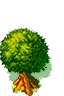
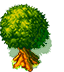
Draw order fixed (as well as in multiplayer)

diff --git a/MFS/MFS/SpriteManager.cs b/MFS/MFS/SpriteManager.cs
@@ -48,22 +48,25 @@ namespace MFS
                                             new Point(26, 15));
             
             //backgroundID3
-            Sprite bckgr = new Sprite (Game.Content.Load<Texture2D>(@"Images/Background/backgroundSheet"), new Point(16, 16), new Point(11, 2), 0);
+            Sprite bckgr = new Sprite (Game.Content.Load<Texture2D>(@"Images/Background/grasstiles2"), new Point(32, 32), new Point(2, 1), 0);
 
             //treealive1ID4
-            Sprite treealive1 = new Sprite(Game.Content.Load<Texture2D>(@"Images/Trees/treealive1"), new Point(64,96));
+            Sprite treealive1 = new Sprite(Game.Content.Load<Texture2D>(@"Images/Trees/treealive1"), new Point(64,72));
 
             //treealive2ID5
-            Sprite treealive2 = new Sprite(Game.Content.Load<Texture2D>(@"Images/Trees/treealive2"), new Point(64,96));
+            Sprite treealive2 = new Sprite(Game.Content.Load<Texture2D>(@"Images/Trees/treealive2"), new Point(64, 72));
 
             //treealive3ID6
-            Sprite treealive3 = new Sprite(Game.Content.Load<Texture2D>(@"Images/Trees/treealive3"), new Point(64,96));
+            Sprite treealive3 = new Sprite(Game.Content.Load<Texture2D>(@"Images/Trees/treealive3"), new Point(64, 72));
 
             //treestump1ID7
-            Sprite treestump1 = new Sprite(Game.Content.Load<Texture2D>(@"Images/Trees/treestump1"), new Point(64,96));
+            Sprite treestump1 = new Sprite(Game.Content.Load<Texture2D>(@"Images/Trees/treestump1"), new Point(64, 72));
 
             //treedead1ID8
-            Sprite treedead1 = new Sprite(Game.Content.Load<Texture2D>(@"Images/Trees/treedead1"), new Point(64,96));
+            Sprite treedead1 = new Sprite(Game.Content.Load<Texture2D>(@"Images/Trees/treedead1"), new Point(64, 72));
+
+            ////treedead1ID9
+            //Sprite treetest = new Sprite(Game.Content.Load<Texture2D>(@"Images/Trees/treealiveTEST"), new Point(64, 72));
 
 
             sprites.Add(playerSprite);
@@ -75,6 +78,7 @@ namespace MFS
             sprites.Add(treealive3);
             sprites.Add(treestump1);
             sprites.Add(treedead1);
+            //sprites.Add(treetest);
         }
 
         public Sprite GetSprite (ushort spriteID)

diff --git a/MFS/MFS/Game1.cs b/MFS/MFS/Game1.cs
@@ -1,6 +1,7 @@
 using Microsoft.Xna.Framework;
 using Microsoft.Xna.Framework.Graphics;
 using Microsoft.Xna.Framework.Input;
+using System;
 
 namespace MFS
 {
@@ -29,10 +30,13 @@ namespace MFS
         {
             this.hostname = hostname;
             string path = @"D:\Documents\University\Bachelor\MultiplayerFarmingSimulator\MFS\MFS\map_1.json";
+            //string path = @"D:\Documents\University\Bachelor\MultiplayerFarmingSimulator\MFS\MFS\testmap.json";
             parser = new Parser(path);
             graphics = new GraphicsDeviceManager(this);
 
             graphics.PreferredBackBufferWidth = parser.GetMapWidth();  // set this value to the desired width of your window
+            Console.WriteLine(parser.GetMapWidth());
+            Console.WriteLine(parser.GetMapHeight());
             graphics.PreferredBackBufferHeight = parser.GetMapHeight();   // set this value to the desired height of your window
             graphics.ApplyChanges();
             
@@ -117,7 +121,7 @@ namespace MFS
             startClient.Draw(spriteBatch, text);
         }
 
-        private void updateGameplay(GameTime gameTime)
+        private void UpdateGameplay(GameTime gameTime)
         {
             InputManager.Instance.HandleInput();
             if (GamePad.GetState(PlayerIndex.One).Buttons.Back == ButtonState.Pressed || Keyboard.GetState().IsKeyDown(Keys.Escape))
@@ -136,8 +140,8 @@ namespace MFS
             entityManager.Draw(spriteBatch);
 
             //Draw font
-            spriteBatch.DrawString(text, "Welcome to my game", new Vector2(10, 10), Color.Black,
-                0, Vector2.Zero, 1, SpriteEffects.None, 1);
+            spriteBatch.DrawString(text, "Welcome to my game", new Vector2(10, 10), Color.Red,
+                0, Vector2.Zero, 1, SpriteEffects.None, 0);
         }
 
 
@@ -149,7 +153,7 @@ namespace MFS
                     UpdateMainMenu();
                     break;
                 case GameState.GAMEPLAY:
-                    updateGameplay(gameTime);
+                    UpdateGameplay(gameTime);
                     break;
             }
 

diff --git a/MFS/MFS/EntityManager.cs b/MFS/MFS/EntityManager.cs
@@ -44,6 +44,7 @@ namespace MFS
             return AddEntity(entity, false);
         }
 
+        //TODO: delete
         public ushort AddEntity(Entity entity, bool isPlayer)
         {
             ushort entityID = lastID;
@@ -98,10 +99,34 @@ namespace MFS
 
         public void Draw(SpriteBatch spriteBatch)
         {
-            foreach (Entity ent in entities.Values)
+            List<Entity> entitiesToDraw = entities.Values.ToList();
+            entitiesToDraw.Sort(CompareEntity);
+
+            foreach (Entity ent in entitiesToDraw)
             {
                 ent.Draw(spriteBatch);
+                
+                Console.WriteLine("Entity poitionX: " + ent.Position.X + " Entity poitionY: " + ent.Position.Y);
             }
+        }
+
+        private int CompareEntity(Entity a, Entity b)
+        {
+            int heightA = a.Size.Y;
+            int heightB = b.Size.Y;
+
+            if (a.Position.Y + heightA < b.Position.Y + heightB)
+            {
+                return -1;
+            }
+            else if (a.Position.Y + heightA == b.Position.Y + heightB)
+            {
+                if (a.Position.X < b.Position.X)
+                {
+                    return -1;
+                }
+            }
+            return 1;
         }
 
         public void Clear()

diff --git a/MFS/MFS/Entity.cs b/MFS/MFS/Entity.cs
@@ -25,11 +25,25 @@ namespace MFS
             }
         }
         protected ushort spriteID;
+        protected Point size;
+        public Point Size
+        {
+            get
+            {
+                return size;
+            }
+            private set
+            {
+                size = value;
+            }
+        }
 
         public Entity(Vector2 position, ushort spriteID)
         {
             this.position = position;
             this.spriteID = spriteID;
+
+            Size = SpriteManager.Instance.GetSprite(spriteID).FrameSize;
         }
         
         public abstract void Update(GameTime gameTime, Rectangle clientBounds);
@@ -42,12 +56,14 @@ namespace MFS
         {
             msgToFill.Write(position);
             msgToFill.Write(spriteID);
+            msgToFill.Write(size);
         }
 
         public virtual void UnpackPacket(NetIncomingMessage msgToRead)
         {
             position = msgToRead.ReadVector2();
             spriteID = msgToRead.ReadUInt16();
+            size = msgToRead.ReadPoint();
         }
     }
 }

diff --git a/MFS/MFS/Sprite.cs b/MFS/MFS/Sprite.cs
@@ -68,15 +68,26 @@ namespace MFS {
             }
         }
 
-        public void Draw(SpriteBatch spriteBatch, Vector2 position)
+        public void Draw(SpriteBatch spriteBatch, Vector2 position, bool ignoreDepth = false)
         {
+            float depth = 1 - ((position.Y - frameSize.Y) / 800);
+
+            if (depth < 0)
+            {
+                depth = 0;
+            }
+            else if (depth > 1)
+            {
+                depth = 1;
+            }
+
             spriteBatch.Draw(textureImage, position,
                 new Rectangle(currentFrame.X * frameSize.X,
                 currentFrame.Y * frameSize.Y,
                 frameSize.X,
                 frameSize.Y),
                 Color.White, 0, Vector2.Zero,
-                1f, SpriteEffects.None, 0
+                1f, SpriteEffects.None, ignoreDepth ? 1.0f : depth
                 );
         }
         

diff --git a/MFS/MFS/Parser.cs b/MFS/MFS/Parser.cs
@@ -28,7 +28,7 @@ namespace MFS
         {
             int tileheight = root["tileheight"].Value<int>();
             int height = root["height"].Value<int>();
-
+            
             return height * tileheight;
         }
 
@@ -55,7 +55,9 @@ namespace MFS
                         ushort gid = lobject["gid"].Value<ushort>();
                         int posX = lobject["x"].Value<int>();
                         int posY = lobject["y"].Value<int>();
-                        EntityManager.Instance.AddEntity(new Prop(new Vector2(posX, posY), (ushort)(gid + 1)));
+                        int height = lobject["height"].Value<int>();
+                        EntityManager.Instance.AddEntity(new Prop(new Vector2(posX, posY - height), (ushort)(gid + 1)));
+                        
                     }
                 }
             }

diff --git a/MFS/MFS/Tile.cs b/MFS/MFS/Tile.cs
@@ -24,7 +24,7 @@ namespace MFS
             SpriteManager spriteManager = SpriteManager.Instance;
             Sprite sprite = spriteManager.GetSprite(spriteID);
             sprite.CurrentFrame = frame;
-            sprite.Draw(spriteBatch, position);
+            sprite.Draw(spriteBatch, position, true);
         }
     }
 }

diff --git a/MFS/MFS/World.cs b/MFS/MFS/World.cs
@@ -12,7 +12,7 @@ namespace MFS
     {
         
         private Tile[,] tiles;
-        private const int TILESIZE = 16;
+        private const int TILESIZE = 32;
         private List<Tile> availableTiles;
 
         public World(Rectangle clientBounds)
